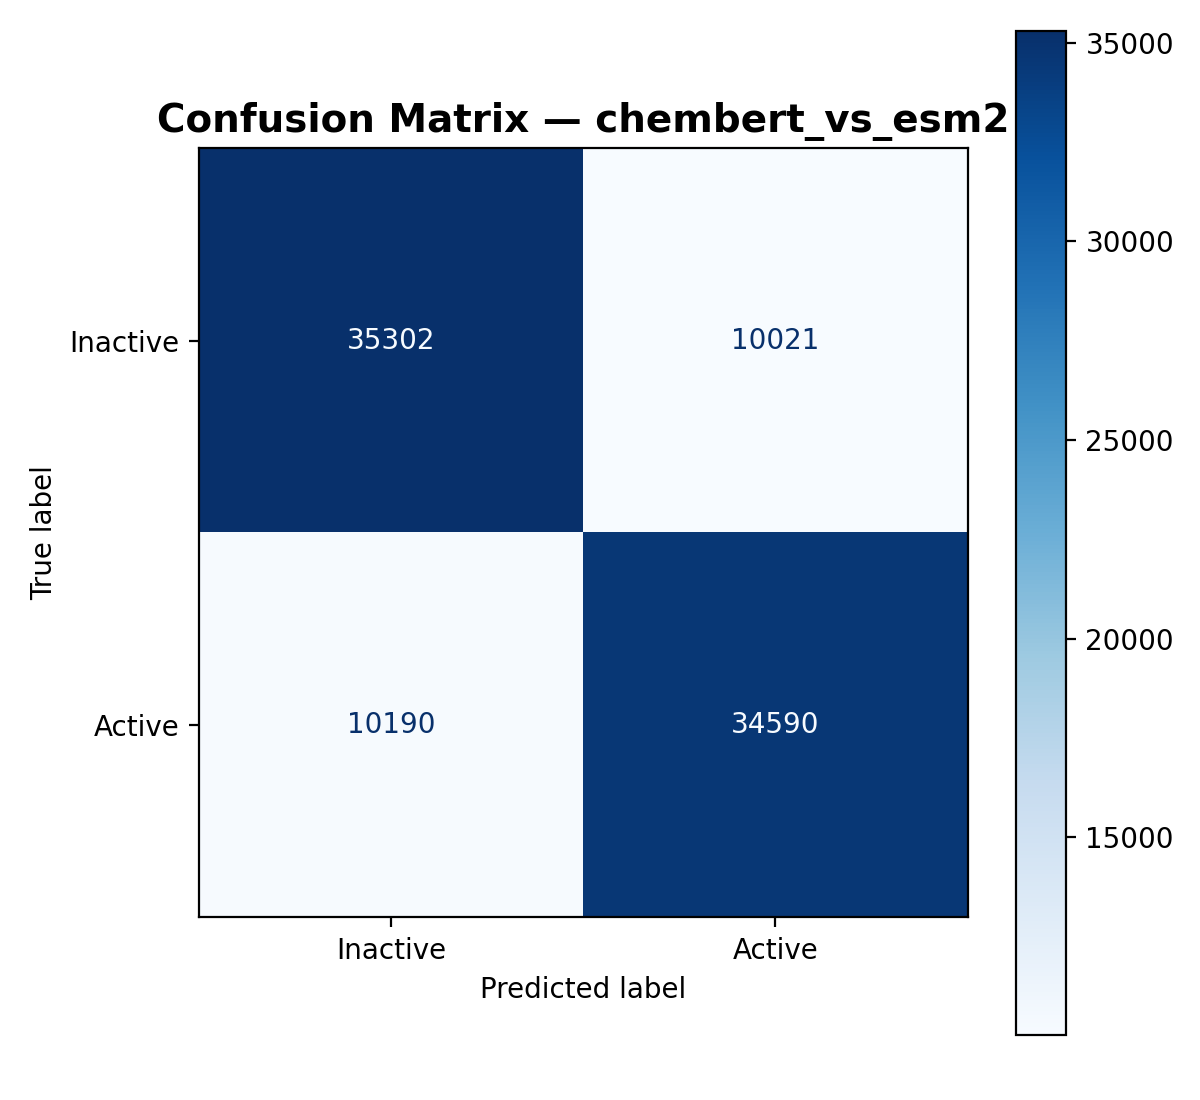
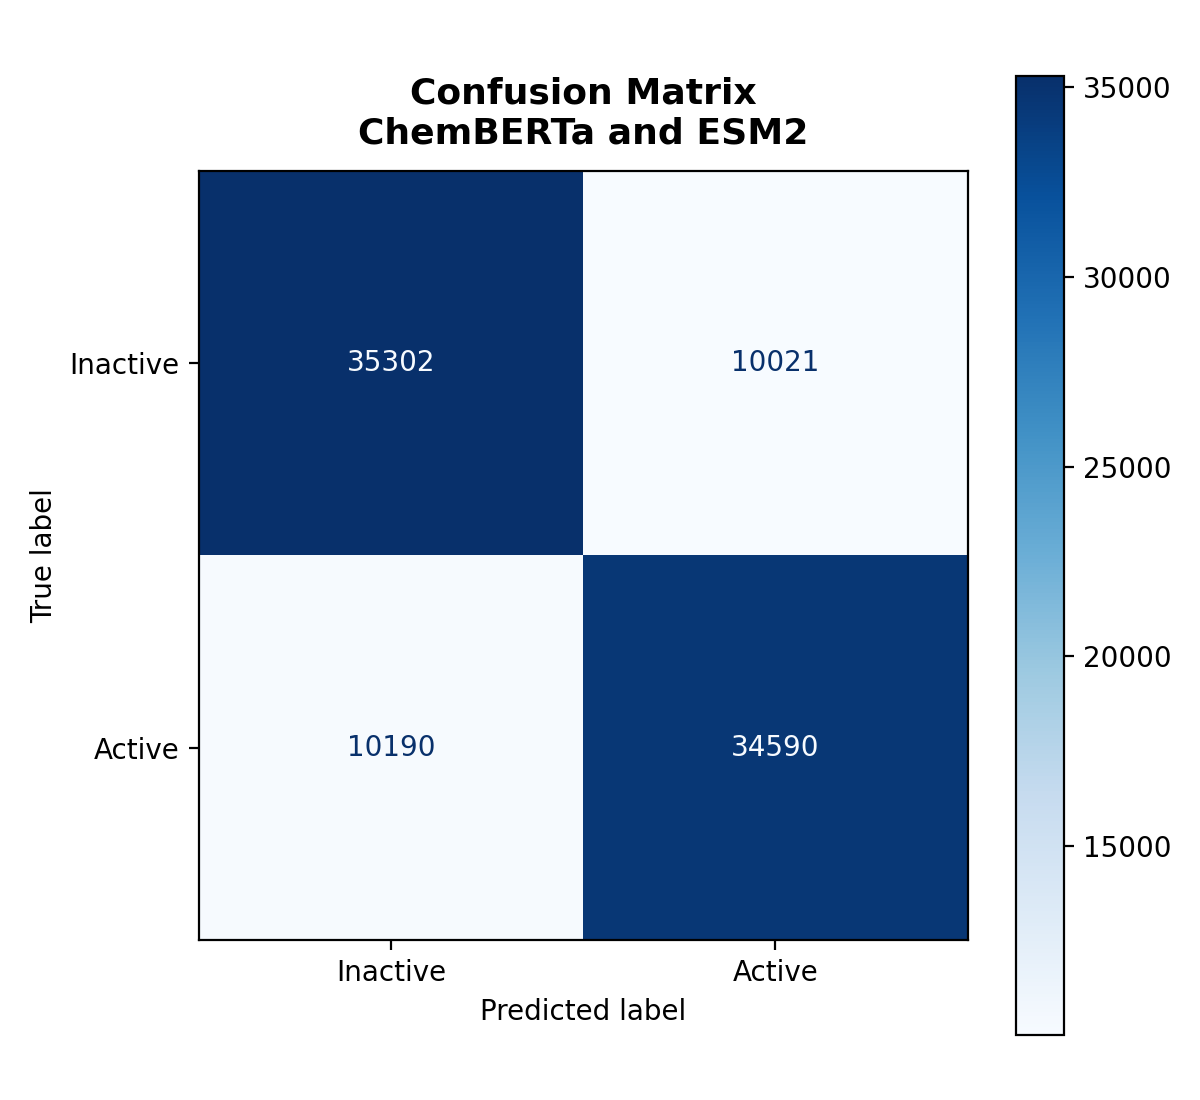
improvmenets

diff --git a/src/plot_model_curves.py b/src/plot_model_curves.py
@@ -13,6 +13,7 @@ from __future__ import annotations
 
 import argparse
 import os
+import textwrap
 from pathlib import Path
 
 import matplotlib
@@ -56,6 +57,25 @@ MODELS_TO_PLOT = [
 
 # ── Helpers ──────────────────────────────────────────────────────────
 
+def format_model_name(name: str) -> str:
+    if name == "gcn_chembert_and_cnn":
+        return "GCN + ChemBERTa and CNN"
+    elif name == "gcn_fp_chembert_and_cnn_esm2" or name == "gcn_fp_chembert_and_css_esm2" or name == "gcn_fp_chembert_vs_cnn_esm2":
+        return "FP + GCN + ChemBERTa and CNN + ESM2"
+    elif name == "gcn_chemberta_vs_cnn_esm2":
+        return "GCN + ChemBERTa and CNN+ESM2"
+    elif name == "gcn_vs_cnn" or name == "gcn_and_cnn":
+        return "GCN and CNN"
+    elif name == "chembert_vs_esm2":
+        return "ChemBERTa and ESM2"
+
+    parts = name.replace("_and_", "_vs_").split("_vs_")
+    if len(parts) == 2:
+        mapping = {"gcn": "GCN", "fp": "FP", "chembert": "ChemBERTa", "chemberta": "ChemBERTa", "cnn": "CNN", "esm2": "ESM2", "css": "CNN"}
+        drugs = [mapping.get(d, d.upper()) for d in parts[0].split("_")]
+        prots = [mapping.get(p, p.upper()) for p in parts[1].split("_")]
+        return " + ".join(drugs) + " and " + " + ".join(prots)
+    return name
 
 def _resolve_path(path_value: str | Path) -> Path:
     path = Path(path_value)
@@ -131,7 +151,8 @@ def plot_roc_curve(
     ax.set_ylim([-0.02, 1.02])
     ax.set_xlabel("False Positive Rate", fontsize=12)
     ax.set_ylabel("True Positive Rate", fontsize=12)
-    ax.set_title(f"ROC Curve — {model_name}", fontsize=14, fontweight="bold")
+    formatted_name = format_model_name(model_name)
+    ax.set_title(f"ROC Curve\n{formatted_name}", fontsize=13, fontweight="bold", pad=10)
     ax.legend(loc="lower right", fontsize=11)
     ax.grid(True, alpha=0.3)
     fig.tight_layout()
@@ -161,7 +182,8 @@ def plot_pr_curve(
     ax.set_ylim([-0.02, 1.02])
     ax.set_xlabel("Recall", fontsize=12)
     ax.set_ylabel("Precision", fontsize=12)
-    ax.set_title(f"Precision-Recall Curve — {model_name}", fontsize=14, fontweight="bold")
+    formatted_name = format_model_name(model_name)
+    ax.set_title(f"Precision-Recall Curve\n{formatted_name}", fontsize=13, fontweight="bold", pad=10)
     ax.legend(loc="lower left", fontsize=11)
     ax.grid(True, alpha=0.3)
     fig.tight_layout()
@@ -192,7 +214,9 @@ def plot_confusion_matrix(
         values_format="d",
         colorbar=True,
     )
-    ax.set_title(f"Confusion Matrix — {model_name}", fontsize=14, fontweight="bold")
+    formatted_name = format_model_name(model_name)
+    wrapped_name = "\n".join(textwrap.wrap(formatted_name, width=40))
+    ax.set_title(f"Confusion Matrix\n{wrapped_name}", fontsize=13, fontweight="bold", pad=10)
     fig.tight_layout()
     fig.savefig(output_path, dpi=200)
     plt.close(fig)

diff --git a/src/plot_latent_space.py b/src/plot_latent_space.py
@@ -51,6 +51,25 @@ MODELS_TO_PLOT = [
 
 # ── Helpers ──────────────────────────────────────────────────────────
 
+def format_model_name(name: str) -> str:
+    if name == "gcn_chembert_and_cnn":
+        return "GCN + ChemBERTa and CNN"
+    elif name == "gcn_fp_chembert_and_cnn_esm2" or name == "gcn_fp_chembert_and_css_esm2" or name == "gcn_fp_chembert_vs_cnn_esm2":
+        return "FP + GCN + ChemBERTa and CNN + ESM2"
+    elif name == "gcn_chemberta_vs_cnn_esm2":
+        return "GCN + ChemBERTa and CNN+ESM2"
+    elif name == "gcn_vs_cnn" or name == "gcn_and_cnn":
+        return "GCN and CNN"
+    elif name == "chembert_vs_esm2":
+        return "ChemBERTa and ESM2"
+
+    parts = name.replace("_and_", "_vs_").split("_vs_")
+    if len(parts) == 2:
+        mapping = {"gcn": "GCN", "fp": "FP", "chembert": "ChemBERTa", "chemberta": "ChemBERTa", "cnn": "CNN", "esm2": "ESM2", "css": "CNN"}
+        drugs = [mapping.get(d, d.upper()) for d in parts[0].split("_")]
+        prots = [mapping.get(p, p.upper()) for p in parts[1].split("_")]
+        return " + ".join(drugs) + " and " + " + ".join(prots)
+    return name
 
 def _resolve_path(path_value: str | Path) -> Path:
     path = Path(path_value)
@@ -176,10 +195,12 @@ def plot_tsne(
 
     ax.set_xlabel("t-SNE 1", fontsize=12)
     ax.set_ylabel("t-SNE 2", fontsize=12)
+    formatted_name = format_model_name(model_name)
     ax.set_title(
-        f"Latent Space (t-SNE) — {model_name}",
-        fontsize=14,
+        f"Latent Space (t-SNE)\n{formatted_name}",
+        fontsize=13,
         fontweight="bold",
+        pad=10,
     )
     ax.legend(fontsize=11, markerscale=3)
     ax.grid(True, alpha=0.15)
